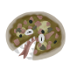
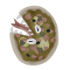
add paperplane

diff --git a/Source/Spawner.cpp b/Source/Spawner.cpp
@@ -1,6 +1,7 @@
 #include "Spawner.hpp"
 #include <iostream>
 #include <DemoniacObject/PizzaZombie.hpp>
+#include "DemoniacObject/PaperPlane.hpp"
 
 Spawner::Spawner(sf::Vector2f const& target)
 	: m_difficulty(0)
@@ -113,6 +114,8 @@ int Spawner::getHighestTokenCost(int token)
         return 40;
     if(token >= 30)
         return 30;
+	if (token >= 20)
+		return 20;
     if(token >= 15)
         return 15;
     else if(token >= 5)
@@ -131,6 +134,8 @@ DemoniacObject *Spawner::createDemoniacObjectWithToken(int token)
             return new FatFly();
         case 15 :
             return new PizzaZombie();
+		case 20 :
+			return new PaperPlane();
         case 30 :
             return new SmallFly();
         case 40 :
@@ -142,4 +147,3 @@ DemoniacObject *Spawner::createDemoniacObjectWithToken(int token)
 			return new Fly();
     }
 }
-

diff --git a/Source/DemoniacObject/Fly.cpp b/Source/DemoniacObject/Fly.cpp
@@ -13,11 +13,9 @@ Fly::Fly()
 					 FLY_ARMOR,
 					 FLY_SPRITESWAP)
 {
-	getDrawable().addTexture(Container<sf::Texture>::Instance()->GetResource("PAPER_PLANE_1"));
-	getDrawable().addTexture(Container<sf::Texture>::Instance()->GetResource("PAPER_PLANE_2"));
-	//getDrawable().addTexture(Container<sf::Texture>::Instance()->GetResource("FLY_1"));
-	//getDrawable().addTexture(Container<sf::Texture>::Instance()->GetResource("FLY_2"));
-	getDrawable().setDeathTexture(Container<sf::Texture>::Instance()->GetResource("PAPER_PLANE_3"));
+	getDrawable().addTexture(Container<sf::Texture>::Instance()->GetResource("FLY_1"));
+	getDrawable().addTexture(Container<sf::Texture>::Instance()->GetResource("FLY_2"));
+	getDrawable().setDeathTexture(Container<sf::Texture>::Instance()->GetResource("FLY_3"));
 	getDrawable().nextTexture();
 }
 

diff --git a/Source/DemoniacObject/PaperPlane.cpp b/Source/DemoniacObject/PaperPlane.cpp
@@ -1,0 +1,15 @@
+#include "DemoniacObject/PaperPlane.hpp"
+
+PaperPlane::PaperPlane()
+	: DemoniacObject(sf::Vector2f(),
+					 PAPER_PLANE_LIFE,
+					 PAPER_PLANE_SPEED,
+					 PAPER_PLANE_DAMAGE,
+					 PAPER_PLANE_ARMOR,
+					 PAPER_PLANE_SPRITESWAP)
+{
+	getDrawable().addTexture(Container<sf::Texture>::Instance()->GetResource("PAPER_PLANE_1"));
+	getDrawable().addTexture(Container<sf::Texture>::Instance()->GetResource("PAPER_PLANE_2"));
+	getDrawable().setDeathTexture(Container<sf::Texture>::Instance()->GetResource("PAPER_PLANE_3"));
+	getDrawable().nextTexture();
+}

diff --git a/Header/DemoniacObject/PaperPlane.hpp b/Header/DemoniacObject/PaperPlane.hpp
@@ -1,0 +1,15 @@
+#pragma once
+#include "DemoniacObject/DemoniacObject.hpp"
+#include "Memory/Container.hpp"
+
+#define PAPER_PLANE_LIFE 20
+#define PAPER_PLANE_SPEED 5
+#define PAPER_PLANE_DAMAGE 30
+#define PAPER_PLANE_ARMOR 0
+#define PAPER_PLANE_SPRITESWAP 0.5
+
+class PaperPlane : public DemoniacObject
+{
+public :
+	PaperPlane();
+};
